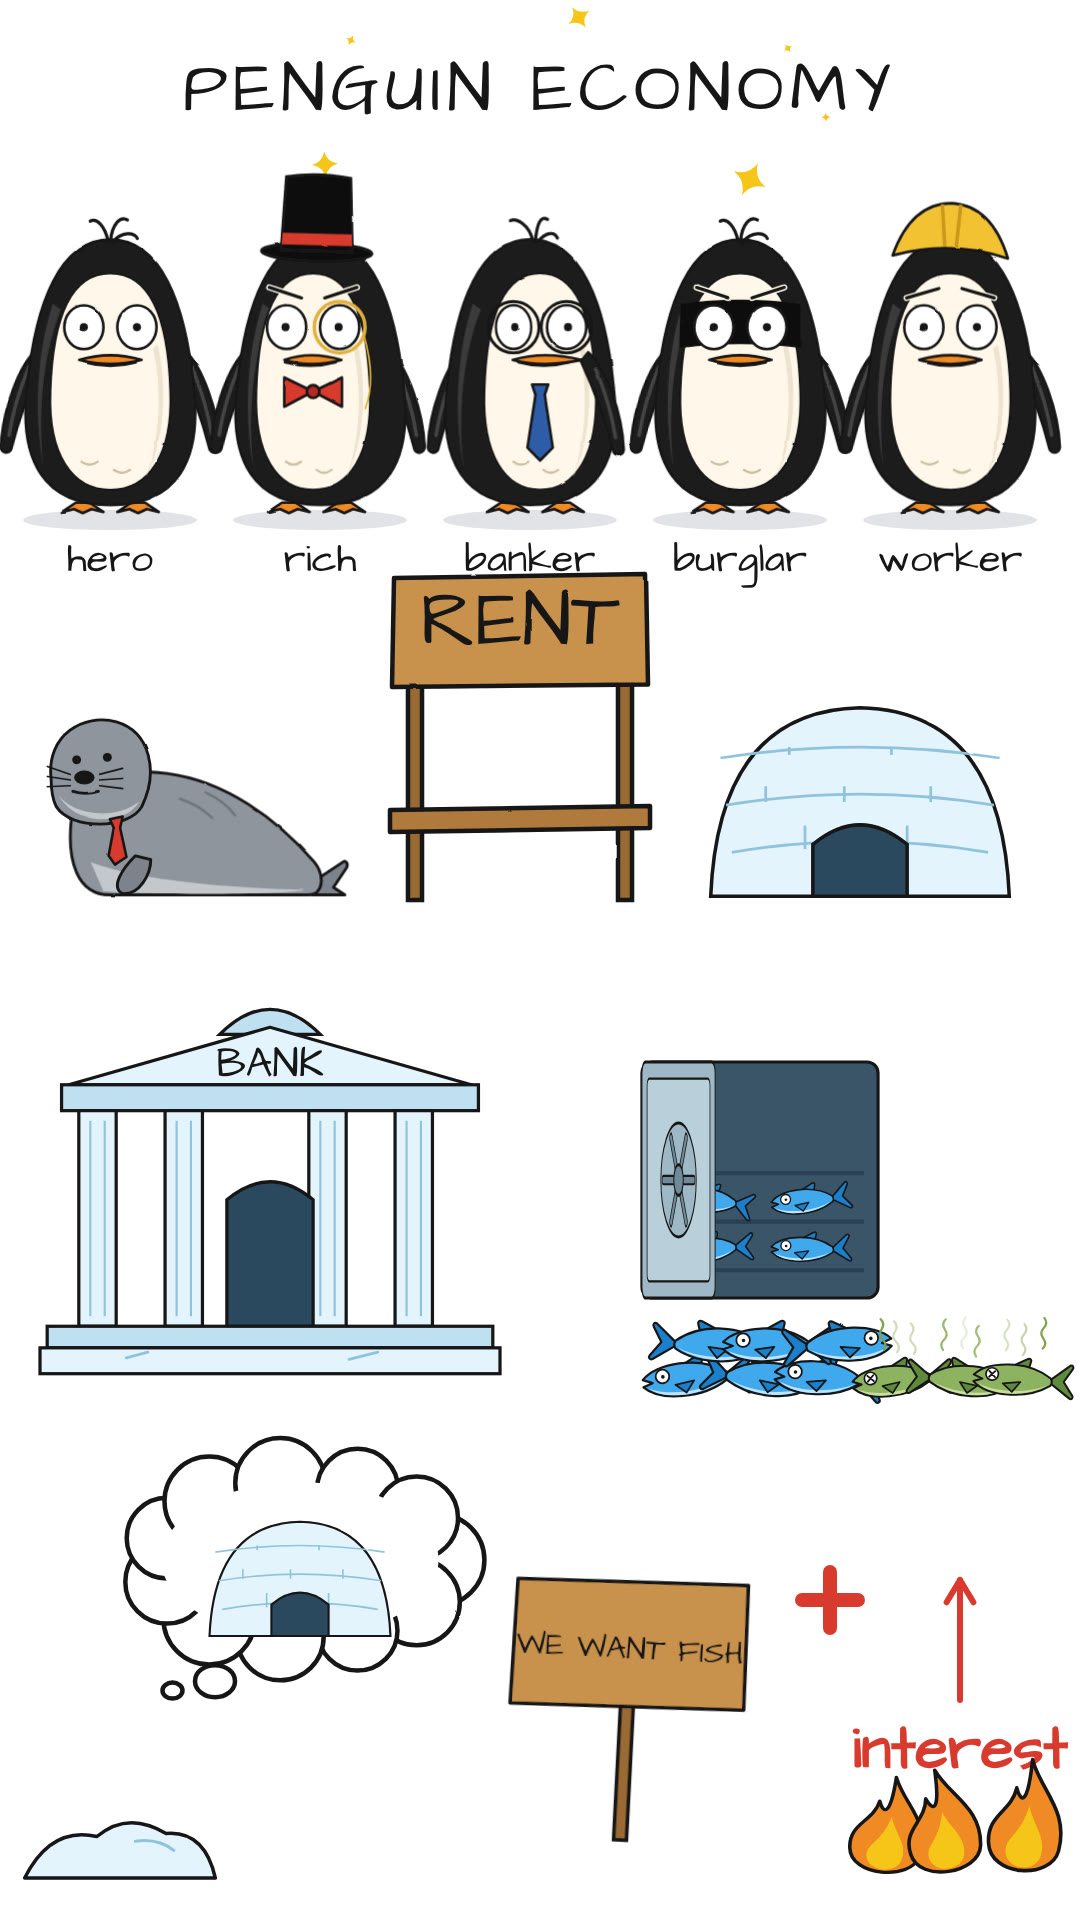
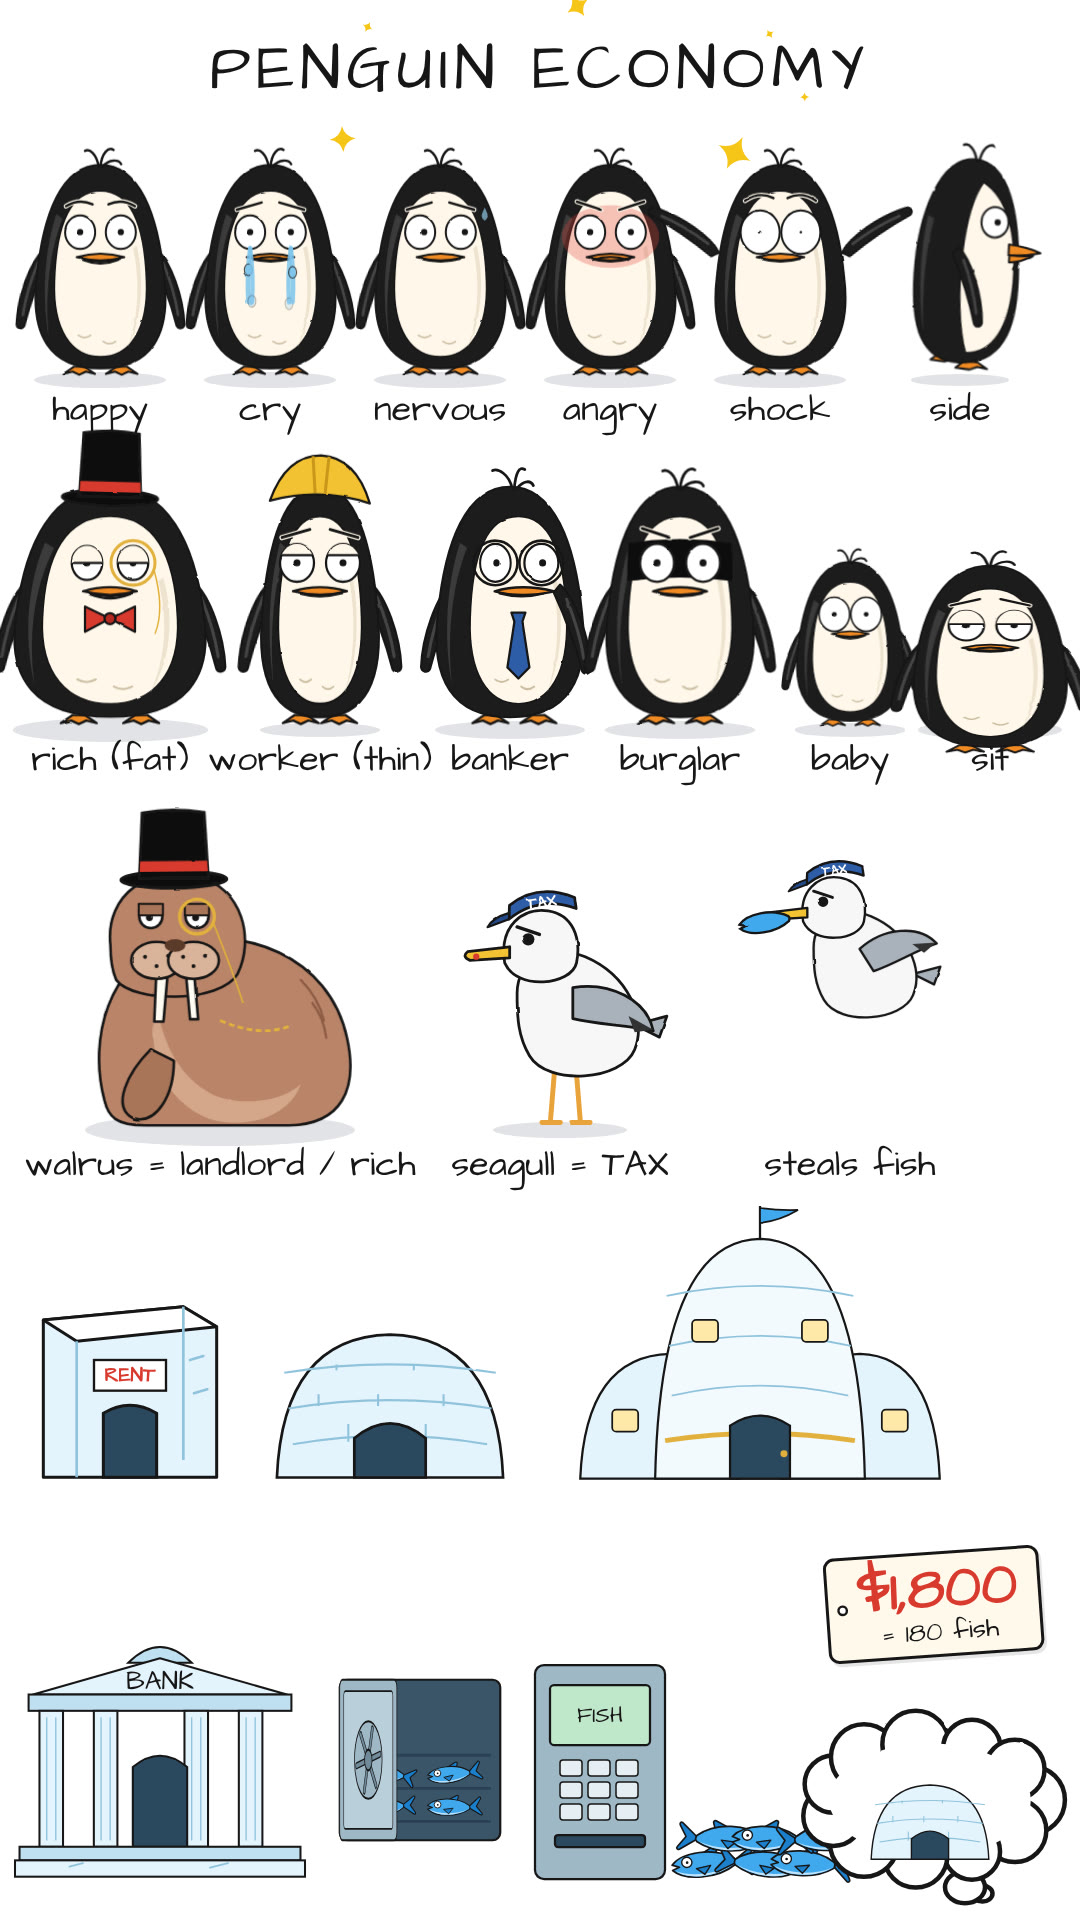
Penguin cast sheet v3 (expressions, builds, outfits, side view, walrus, seagull, places, props); fix side-view feet/belly
Claude-Session: https://claude.ai/code/session_01WoCEfLaVcQaWszcJNnQUVU

diff --git a/studio/src/videos/penguinWorld.tsx b/studio/src/videos/penguinWorld.tsx
@@ -1,30 +1,40 @@
-// Penguin world reference sheet: the whole cast, outfits, set pieces and story devices on one page.
+// Penguin world reference sheet: cast (builds, outfits, side view, expressions), other species, set pieces, story devices.
 import React from 'react';
 import {AbsoluteFill} from 'remotion';
 import {HandFont} from '../sketch';
-import {Penguin, Seal, Stand} from '../penguin/rig';
-import {Flame, FishPile, IceBank, Igloo, Letter, Note, Plus, Sign, SnowPile, Thought, Title, Vault} from '../penguin/world';
+import {Penguin} from '../penguin/rig';
+import {Seagull, Walrus} from '../penguin/cast';
+import {FishATM, FishPile, IceBank, IceCube, Igloo, Letter, Mansion, PriceTag, Thought, Title, Vault} from '../penguin/world';
 
+const L = ({t, x, y}: {t: string; x: number; y: number}) => <Letter text={t} x={x} y={y} size={36} />;
 export const PenguinWorld = () => <AbsoluteFill style={{background: '#fff'}}>
   <HandFont />
-  <Title lines={['PENGUIN ECONOMY']} x={540} y={90} size={70} />
-  <Penguin x={110} y={520} h={300} id="a" />
-  <Penguin x={320} y={520} h={300} id="b" outfit="rich" pose={{brows: 'angry', turn: -0.3}} />
-  <Penguin x={530} y={520} h={300} id="c" outfit="banker" pose={{turn: 0.4}} />
-  <Penguin x={740} y={520} h={300} id="d" outfit="burglar" pose={{brows: 'angry'}} />
-  <Penguin x={950} y={520} h={300} id="e" outfit="worker" pose={{brows: 'worried'}} />
-  {['hero', 'rich', 'banker', 'burglar', 'worker'].map((s, i) => <Letter key={s} text={s} x={110 + i * 210} y={560} size={40} />)}
-  <Seal x={180} y={900} h={230} />
-  <Stand x={520} y={900} label="RENT" w={260} h={330} counter={90} />
-  <Igloo x={860} y={900} w={330} />
-  <IceBank x={270} y={1380} w={460} id="bk" />
-  <Vault x={760} y={1180} w={250} open={0.75} fish={4} />
-  <FishPile x={760} y={1400} n={6} w={120} />
-  <FishPile x={960} y={1400} n={3} w={110} rotten={1} seed={2} />
-  <Thought x={300} y={1560} w={330} tx={130} ty={1700}><div style={{position: 'relative', width: 330, height: 205}}><Igloo x={165} y={180} w={200} id="ig2" /></div></Thought>
-  <Sign x={620} y={1840} text="WE WANT FISH" w={240} />
-  <Plus x={830} y={1600} />
-  <Note text="interest" x={960} y={1700} toX={960} toY={1580} />
-  {[0, 1, 2].map((i) => <Flame key={i} x={880 + i * 70} y={1880} s={0.8} seed={i} />)}
-  <SnowPile x={120} y={1880} w={200} />
+  <Title lines={['PENGUIN ECONOMY']} x={540} y={70} size={64} />
+  {/* row 1: hero expressions */}
+  <Penguin x={100} y={380} h={230} id="e1" pose={{beak: 'smile', brows: 'happy'}} /><L t="happy" x={100} y={410} />
+  <Penguin x={270} y={380} h={230} id="e2" pose={{tears: true, brows: 'worried', beak: 'frown'}} /><L t="cry" x={270} y={410} />
+  <Penguin x={440} y={380} h={230} id="e3" pose={{sweat: true, brows: 'worried', look: [0.6, 0]}} /><L t="nervous" x={440} y={410} />
+  <Penguin x={610} y={380} h={230} id="e4" pose={{angry: 1, brows: 'angry', beak: 'frown'}} /><L t="angry" x={610} y={410} />
+  <Penguin x={780} y={380} h={230} id="e5" pose={{brows: 'shock', eyeScale: 1.3, pupil: 0.4, flapL: 110, flapR: 110}} /><L t="shock" x={780} y={410} />
+  <Penguin x={960} y={380} h={230} id="e6" pose={{side: true, turn: 1, walk: 0.2}} /><L t="side" x={960} y={410} />
+  {/* row 2: builds + outfits */}
+  <Penguin x={110} y={730} h={260} id="b1" build="fat" outfit="rich" pose={{lids: 0.5, beak: 'smile'}} /><L t="rich (fat)" x={110} y={760} />
+  <Penguin x={320} y={730} h={260} id="b2" build="thin" outfit="worker" pose={{brows: 'worried', lids: 0.3}} /><L t="worker (thin)" x={320} y={760} />
+  <Penguin x={510} y={730} h={260} id="b3" outfit="banker" pose={{turn: 0.4}} /><L t="banker" x={510} y={760} />
+  <Penguin x={680} y={730} h={260} id="b4" outfit="burglar" pose={{brows: 'angry'}} /><L t="burglar" x={680} y={760} />
+  <Penguin x={850} y={730} h={180} id="b5" build="baby" pose={{beak: 'smile'}} /><L t="baby" x={850} y={760} />
+  <Penguin x={990} y={730} h={250} id="b6" pose={{sit: 1, lids: 0.45, brows: 'worried', beak: 'frown'}} /><L t="sit" x={990} y={760} />
+  {/* row 3: other species */}
+  <Walrus x={220} y={1130} h={300} /><L t="walrus = landlord / rich" x={220} y={1165} />
+  <Seagull x={560} y={1130} h={260} /><L t="seagull = TAX" x={560} y={1165} />
+  <Seagull x={850} y={1060} h={220} id="gfly" pose={{fly: true, holding: true}} /><L t="steals fish" x={850} y={1165} />
+  {/* row 4: places */}
+  <IceCube x={130} y={1480} w={200} sign="RENT" /><Igloo x={390} y={1480} w={250} /><Mansion x={760} y={1480} w={380} />
+  {/* row 5: props + devices */}
+  <IceBank x={160} y={1880} w={290} id="bk" />
+  <Vault x={420} y={1760} w={170} open={0.7} fish={4} />
+  <FishATM x={600} y={1880} w={150} />
+  <FishPile x={760} y={1880} n={6} w={90} />
+  <PriceTag x={930} y={1640} price="$1,800" fish="= 180 fish" size={0.6} />
+  <Thought x={930} y={1800} w={240} tx={1000} ty={1900}><div style={{position: 'relative', width: 240, height: 150}}><Igloo x={120} y={135} w={130} id="ig2" /></div></Thought>
 </AbsoluteFill>;

diff --git a/studio/src/penguin/rig.tsx b/studio/src/penguin/rig.tsx
@@ -125,11 +125,11 @@ export const Penguin = ({x, y, h = 520, id = 'pg', seed = 0, pose = {}, outfit =
   if (side) {
     // True profile, facing right (mirrored for left). One eye, pointed beak, one flipper, feet step forward/back.
     return wrap(<g transform={dir < 0 ? 'translate(400 0) scale(-1 1)' : ''}>
-      <path transform={`translate(${-stride * 30} ${500 - liftL})`} d="M-10 6 L10 -10 L40 -8 L62 6 L40 2 L22 9 Z" fill={ORANGE} stroke={INK} strokeWidth={LW} strokeLinejoin="round" />
-      <path transform={`translate(${stride * 30} ${500 - liftR})`} d="M-10 6 L10 -10 L40 -8 L62 6 L40 2 L22 9 Z" fill={ORANGE} stroke={INK} strokeWidth={LW} strokeLinejoin="round" />
+      <path transform={`translate(${170 - stride * 30} ${500 - liftL})`} d="M-10 6 L10 -10 L40 -8 L62 6 L40 2 L22 9 Z" fill={ORANGE} stroke={INK} strokeWidth={LW} strokeLinejoin="round" />
+      <path transform={`translate(${170 + stride * 30} ${500 - liftR})`} d="M-10 6 L10 -10 L40 -8 L62 6 L40 2 L22 9 Z" fill={ORANGE} stroke={INK} strokeWidth={LW} strokeLinejoin="round" />
       <g transform={`translate(200 0) scale(${B.bx} 1) translate(-200 0)`}>
         <path d="M210 40 C 290 44, 318 160, 320 300 C 322 420, 290 494, 196 494 C 110 494, 84 420, 86 300 C 88 170, 130 38, 210 40 Z" fill={BODY} stroke={INK} strokeWidth={LW} />
-        <path d="M244 92 C 296 130, 306 220, 304 310 C 302 410, 268 468, 214 470 C 262 420, 270 330, 266 250 C 262 170, 240 120, 214 96 Z" fill={BELLY} stroke={INK} strokeWidth={LW - 1} />
+        <path d="M232 90 C 296 128, 312 220, 310 310 C 306 410, 272 470, 210 472 C 192 420, 186 330, 192 250 C 198 170, 212 120, 232 90 Z" fill={BELLY} stroke={INK} strokeWidth={LW - 1} />
         <path d="M110 170 C 96 250, 96 340, 112 430 C 104 340, 108 250, 124 176 Z" fill={SHADE} />
       </g>
       {outfit !== 'rich' && outfit !== 'worker' && <path d={`M214 44 C 206 16, 190 6, 180 12 M220 44 C 222 12, 238 0, 250 6`} fill="none" stroke={INK} strokeWidth={LW + 1} strokeLinecap="round" transform={`rotate(${Math.sin(t * 3.1) * 6} 216 44)`} />}
